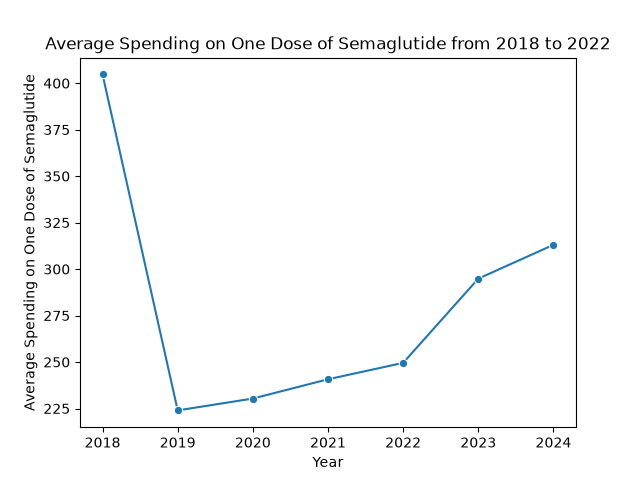
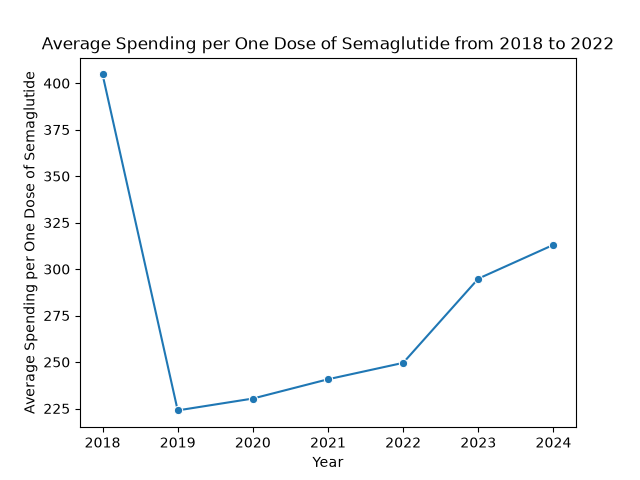
revise visualization

Changed region(s): [[0.0625, 0.0625, 0.9688, 0.125], [0.0312, 0.1562, 0.0625, 0.875]]

diff --git a/code/visualizations.py b/code/visualizations.py
@@ -107,8 +107,8 @@ semaglutide_avg_cost_per_dose_trend = duckdb.sql("""SELECT year, generic_name, M
 sns.lineplot(semaglutide_avg_cost_per_dose_trend, x='year', y = 'avg_spending', marker = "o")
 
 plt.xlabel('Year')
-plt.ylabel('Average Spending on One Dose of Semaglutide')
-plt.title('Average Spending on One Dose of Semaglutide from 2018 to 2022')
+plt.ylabel('Average Spending per One Dose of Semaglutide')
+plt.title('Average Spending per One Dose of Semaglutide from 2018 to 2022')
 plt.show()        
 
 # vis 5
